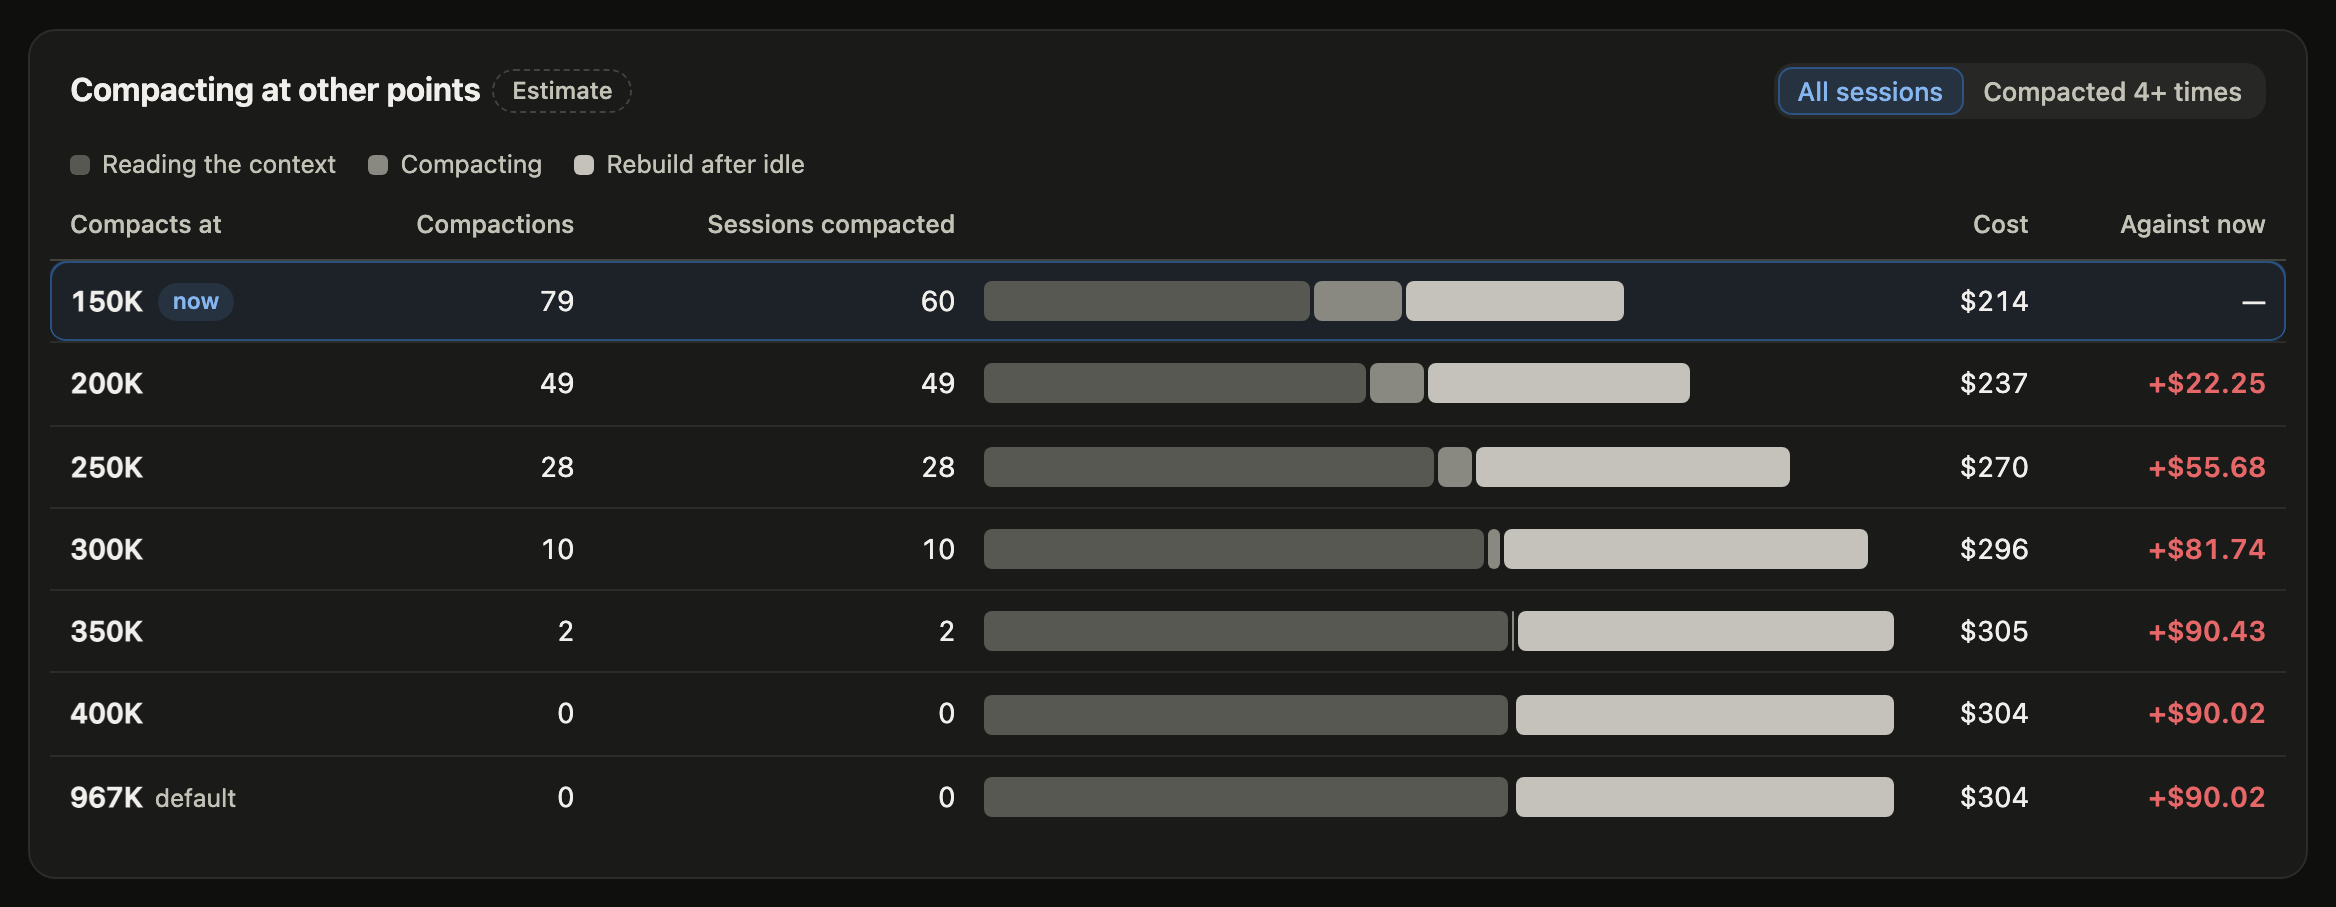
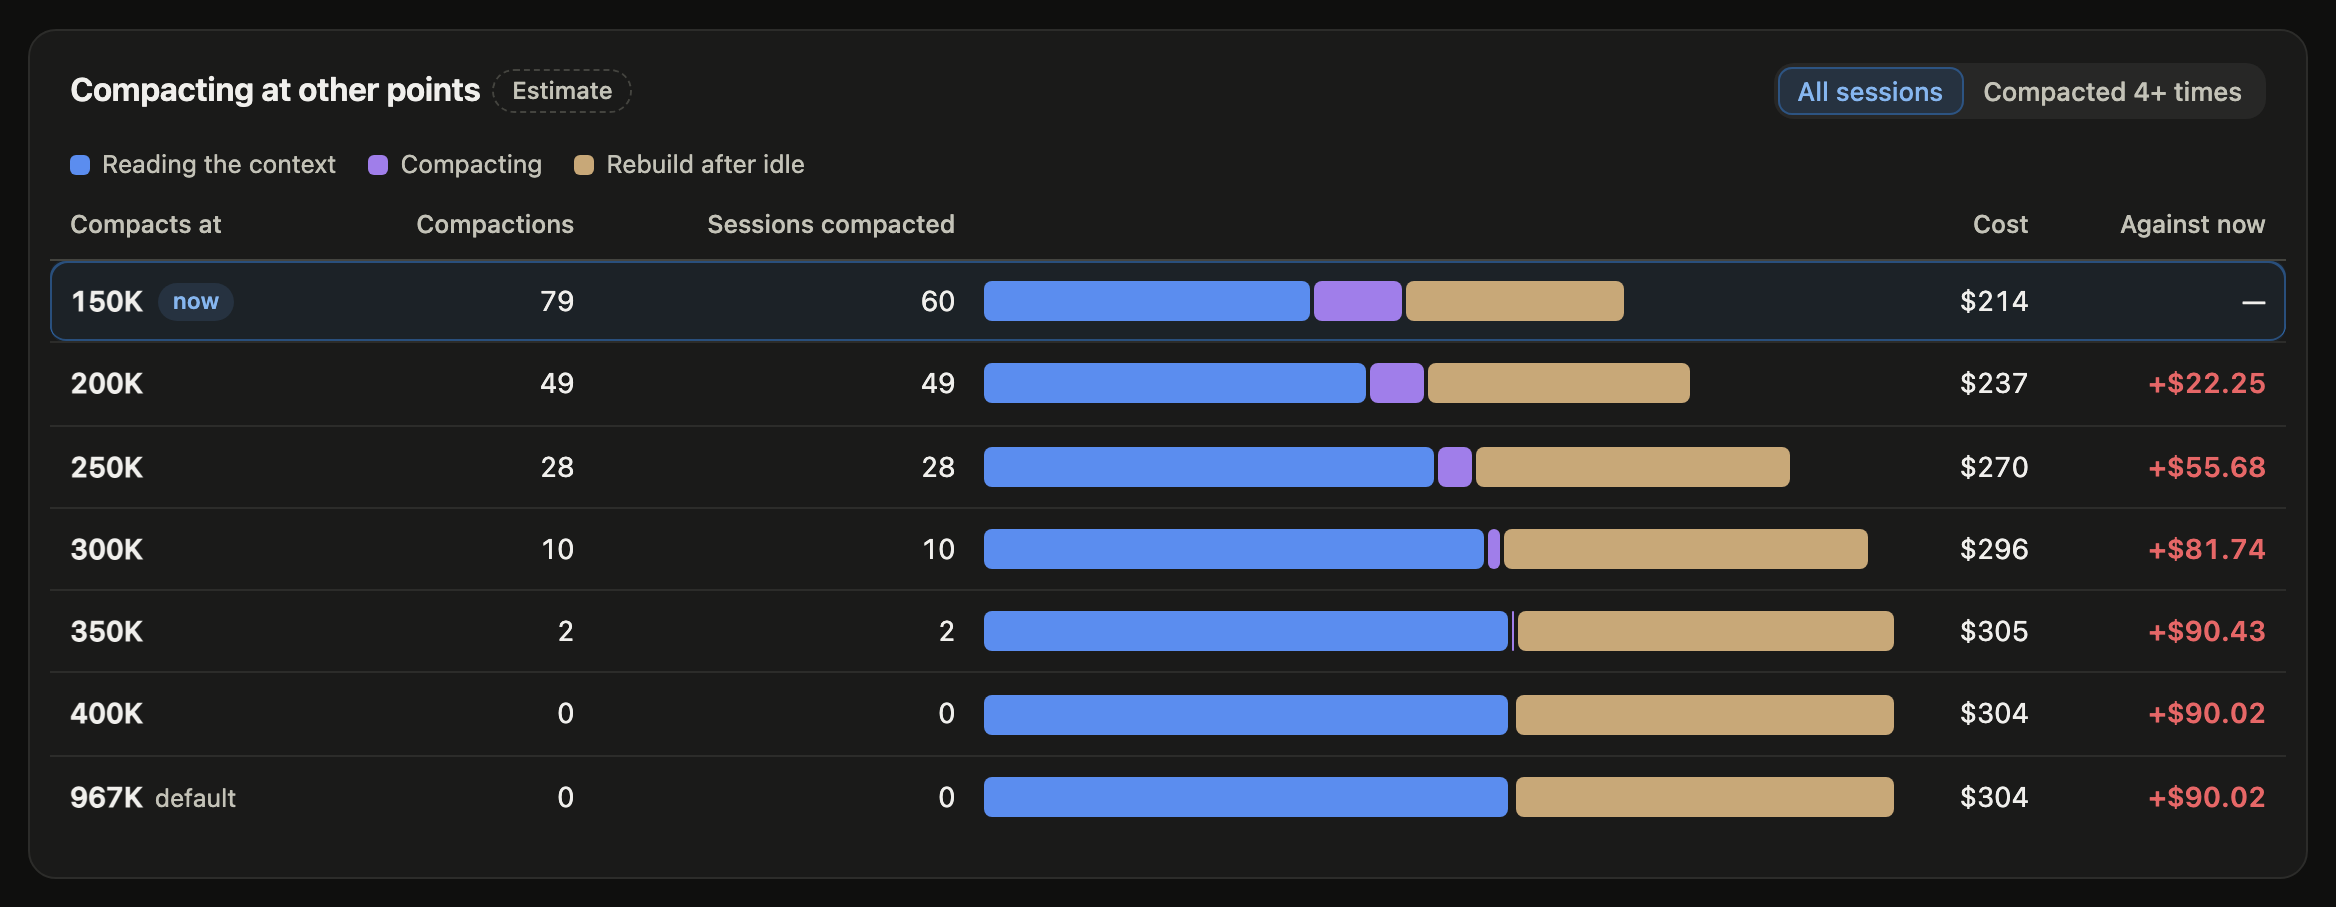
style: give the compaction replay's cost parts distinct colors

diff --git a/dashboard/src/styles.css b/dashboard/src/styles.css
@@ -4,6 +4,7 @@
   --s1: #2a78d6; --s2: #eb6834; --s3: #1baf7a; --s4: #eda100; --s5: #e87ba4; --s0: #b9b8b0; --sub: #6d4fe8; --seq: #2a78d6;
   --v0: #c9c4fb; --v1: #9d93f5; --v2: #6f5ce6; --v3: #4630c0; --v4: #26177a;
   --k0: #dcdad2; --k1: #a5a39a; --k2: #64625c; --kw: repeating-linear-gradient(135deg, #dcdad2 0 4px, #c2c0b8 4px 8px);
+  --ck0: #3b6fd9; --ck1: #7c5bd1; --ck2: #a8864f;
   --good: #0ca30c; --up: #1c5cab; --neg: #d03b3b; --shadow: 0 8px 28px rgba(0,0,0,.10);
   --sb: rgba(11,11,11,.18); --sb-hover: rgba(11,11,11,.34);
 }
@@ -13,6 +14,7 @@
   --s1: #3987e5; --s2: #d95926; --s3: #199e70; --s4: #c98500; --s5: #d55181; --s0: #5a5a55; --sub: #7b66f0; --seq: #3987e5;
   --v0: #30286a; --v1: #4e42ae; --v2: #7c6ff0; --v3: #b2abff; --v4: #e4e1ff;
   --k0: #585853; --k1: #8a8981; --k2: #c4c2ba; --kw: repeating-linear-gradient(135deg, #585853 0 4px, #6e6d67 4px 8px);
+  --ck0: #5b8def; --ck1: #a07eea; --ck2: #c8a878;
   --good: #0ca30c; --up: #86b6ef; --neg: #e66767; --shadow: 0 8px 28px rgba(0,0,0,.5);
   --sb: rgba(255,255,255,.16); --sb-hover: rgba(255,255,255,.32);
 }
@@ -181,6 +183,8 @@ tbody tr.go:hover td, tbody tr.go:hover th { background: var(--wash); }
 .k0 { background: var(--k0); } .k1 { background: var(--k1); } .k2 { background: var(--k2); } .kw { background: var(--kw); } .kx { background: transparent; box-shadow: inset 0 0 0 1px var(--base); }
 .split i.k0, .split i.k1, .split i.kw { color: #0b0b0b; } .split i.k2 { color: #fff; } .split i.kx { color: var(--ink2); }
 :root[data-theme="dark"] .split i.k0, :root[data-theme="dark"] .split i.k1, :root[data-theme="dark"] .split i.kw { color: #fff; } :root[data-theme="dark"] .split i.k2 { color: #0b0b0b; }
+/* Context cost parts: distinct hues of equal weight, none red or green, which mark the difference column. */
+.ck0 { background: var(--ck0); } .ck1 { background: var(--ck1); } .ck2 { background: var(--ck2); }
 .empty { padding: 40px 0; text-align: center; color: var(--ink2); }
 #tip { position: fixed; z-index: 9; display: none; min-width: 150px; max-width: 400px; padding: 10px 12px; border: 1px solid var(--base); border-radius: 10px; background: var(--raised); box-shadow: var(--shadow); font-size: 12.5px; pointer-events: none; }
 #tip .h { margin-bottom: 6px; color: var(--ink2); }

diff --git a/dashboard/src/views/Context.tsx b/dashboard/src/views/Context.tsx
@@ -154,7 +154,7 @@ function Replay({ C, X }: { C: Compaction[]; X: Ctx[] }) {
     // Past the first point at which nothing compacts, the rows repeat it, save the default.
     .filter((x, i, all) => x.now || x.j === NOW - 1 || x.n > 0 || !all.slice(0, i).some((y) => y.n === 0));
   const base = shown.find((x) => x.now) ?? null, max = Math.max(1, ...shown.map((x) => x.total));
-  const kinds: [string, string][] = [["k0", t("readingCtx")], ["k1", t("compacting")], ["k2", t("rebuildIdle")]];
+  const kinds: [string, string][] = [["ck0", t("readingCtx")], ["ck1", t("compacting")], ["ck2", t("rebuildIdle")]];
   const name = (x: (typeof shown)[number]) => (x.now ? (one ? f.cmp(round5(one)) : levels.map((v) => f.cmp(round5(v))).join(" · ")) : f.cmp(x.at));
   return (
     <section className="card">
